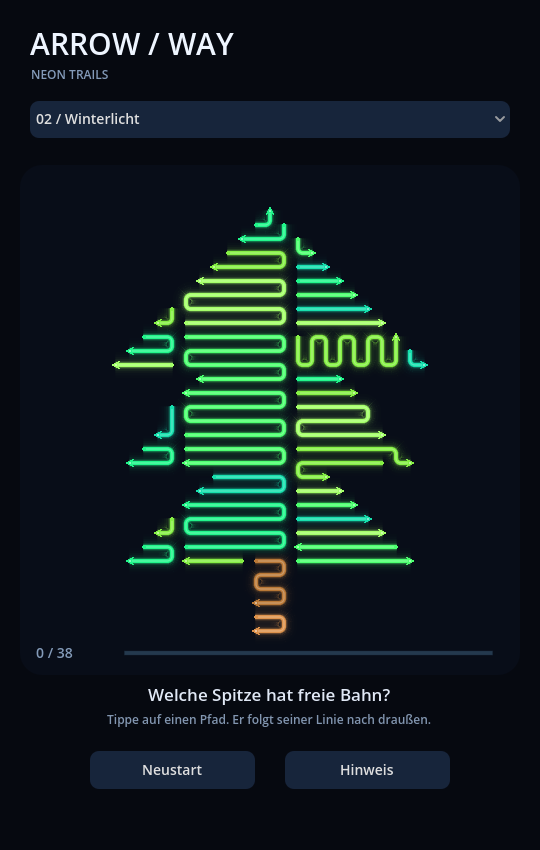
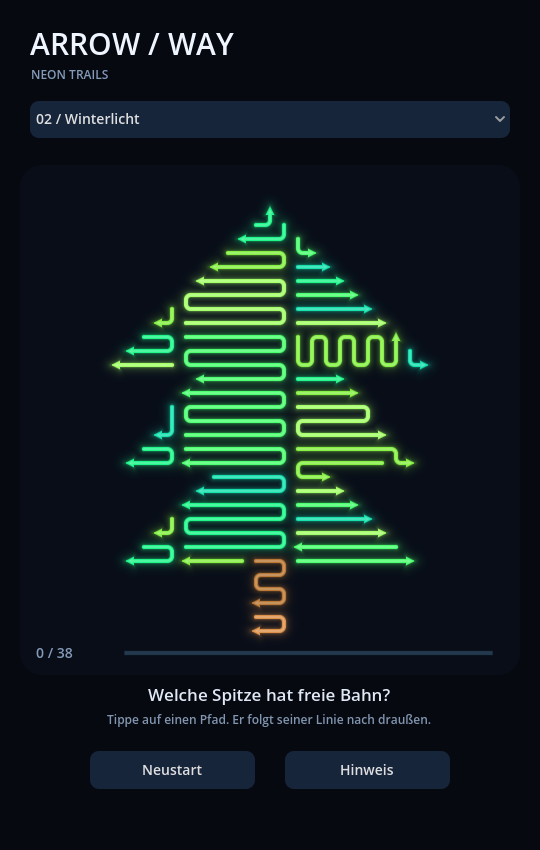
Render continuous neon contours without curve seams or arrowhead spots

diff --git a/README.md b/README.md
@@ -8,10 +8,10 @@ Ein spielbares Godot-Puzzle mit leuchtenden, gerundeten Pfeilpfaden. Die Motive 
 
 Godot **4.x Standard** verwenden; geprüft mit **4.7.2**, GDScript und Compatibility-Renderer. `project.godot` importieren und **F5** drücken. Die ausführliche deutsche Anleitung steht in [START.md](START.md).
 
-## Aktueller Stand · 0.3.0
+## Aktueller Stand · 0.3.1
 
 - Sechs Levels mit 33–41 Pfaden, jeweils vollständig gefüllten Motiven und mehreren Pfeilrichtungen.
-- Gerundete Kurven, mehrschichtiger Neon-Leuchtsaum und heller Linienkern.
+- Gerundete Kurven und ein durchgehend berechneter Neon-Leuchtsaum mit hellem Linienkern. Linien und Pfeilspitzen teilen dieselbe Darstellung; dadurch entstehen keine Flecken durch überlagerte Teilflächen.
 - Motivfarben: grüner Baum mit braunem Stamm, Haus mit warmem Dach, blauen Wänden, hellen Fenstern und violetter Tür; Herz in Pink- und Rottönen.
 - Entkommensanimation entlang der gerundeten Linie, Blockierungsfeedback und Hinweise.
 - Levelauswahl, Fortschrittsanzeige und lokal gespeicherte Freischaltungen.
@@ -26,7 +26,8 @@ Godot **4.x Standard** verwenden; geprüft mit **4.7.2**, GDScript und Compatibi
 - `motifs.gd`: gleichmäßige vollständige Füllung, Motivbereiche und Neonpaletten.
 - `levels/`: sechs fertige, reproduzierbar erzeugte und geprüfte Leveldateien.
 - `main.gd`: Spielzustand, gerundete Animation, Benutzeroberfläche, Werkzeugmodus und Speicherung.
-- `board.gd`: Darstellung der Pfade innerhalb des Spielfelds.
+- `board.gd`: Darstellung der Pfade innerhalb des Spielfelds und wiederverwendbare Zeichenflächen.
+- `neon.gdshader`: zusammenhängende Kontur und weicher Leuchtsaum für Pfad und Pfeilspitze; Kantenglättung berücksichtigt die Bildschirmauflösung.
 - `tests/test_runner.gd`: Spiellogik und Editorintegration.
 
 Die Formen bestehen aus Rasterzellen mit 14 Pixeln Abstand. Der Generator füllt Motivbereiche mit ineinandergreifenden horizontalen und vertikalen Schleifen. Randzellen werden angeschlossen, ohne andere Zellen zu duplizieren. Unvollständige oder unlösbare Varianten werden verworfen. Alle sechs gelieferten Motive sind zu 100 Prozent belegt. Alle Pfade bestehen aus echten Punktfolgen; die Darstellung und Animation runden die Ecken mit kleinen Kreisbögen ab. Die Blockierungsprüfung berücksichtigt auch parallele Linien, Linienenden und die eigene Pfadgeometrie.
